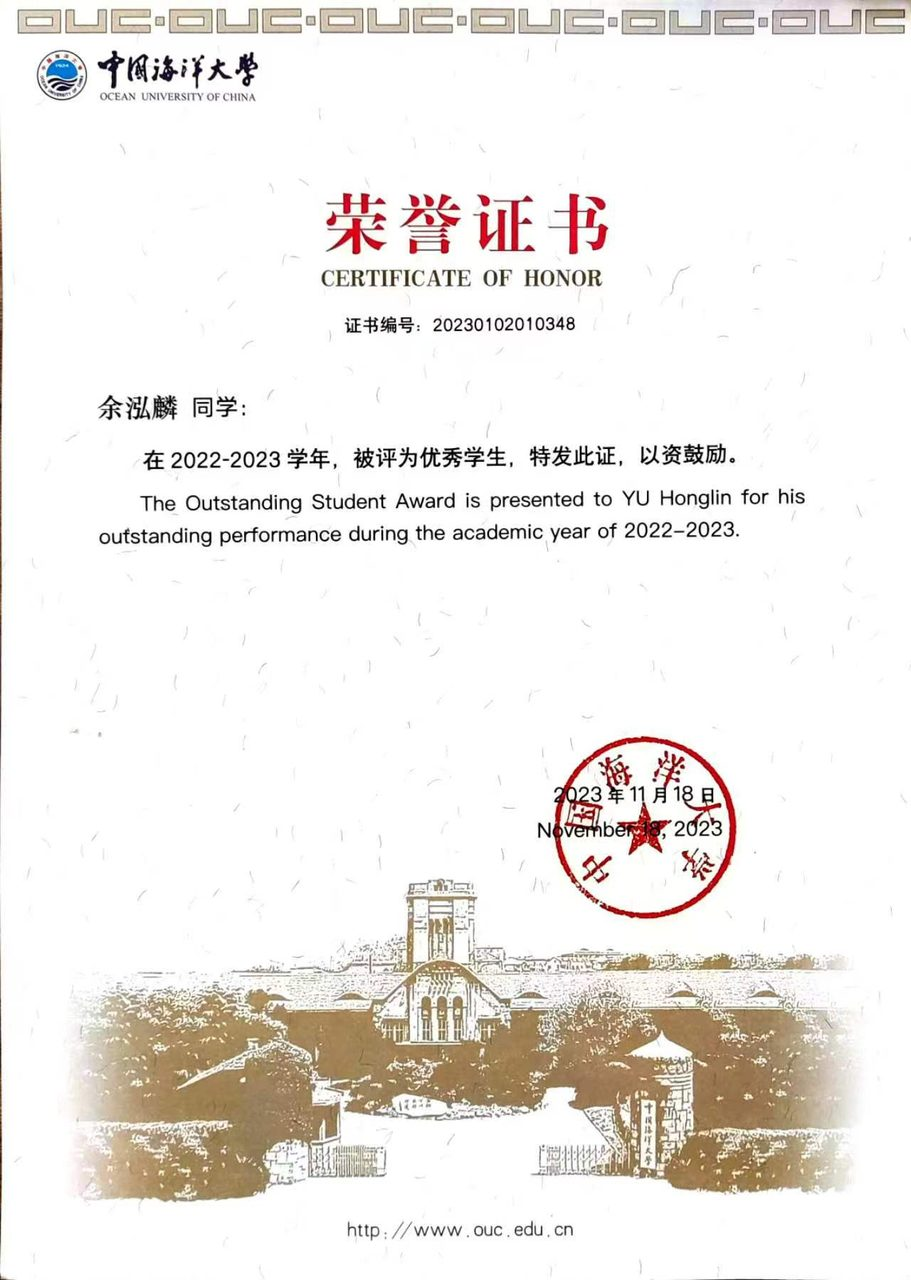
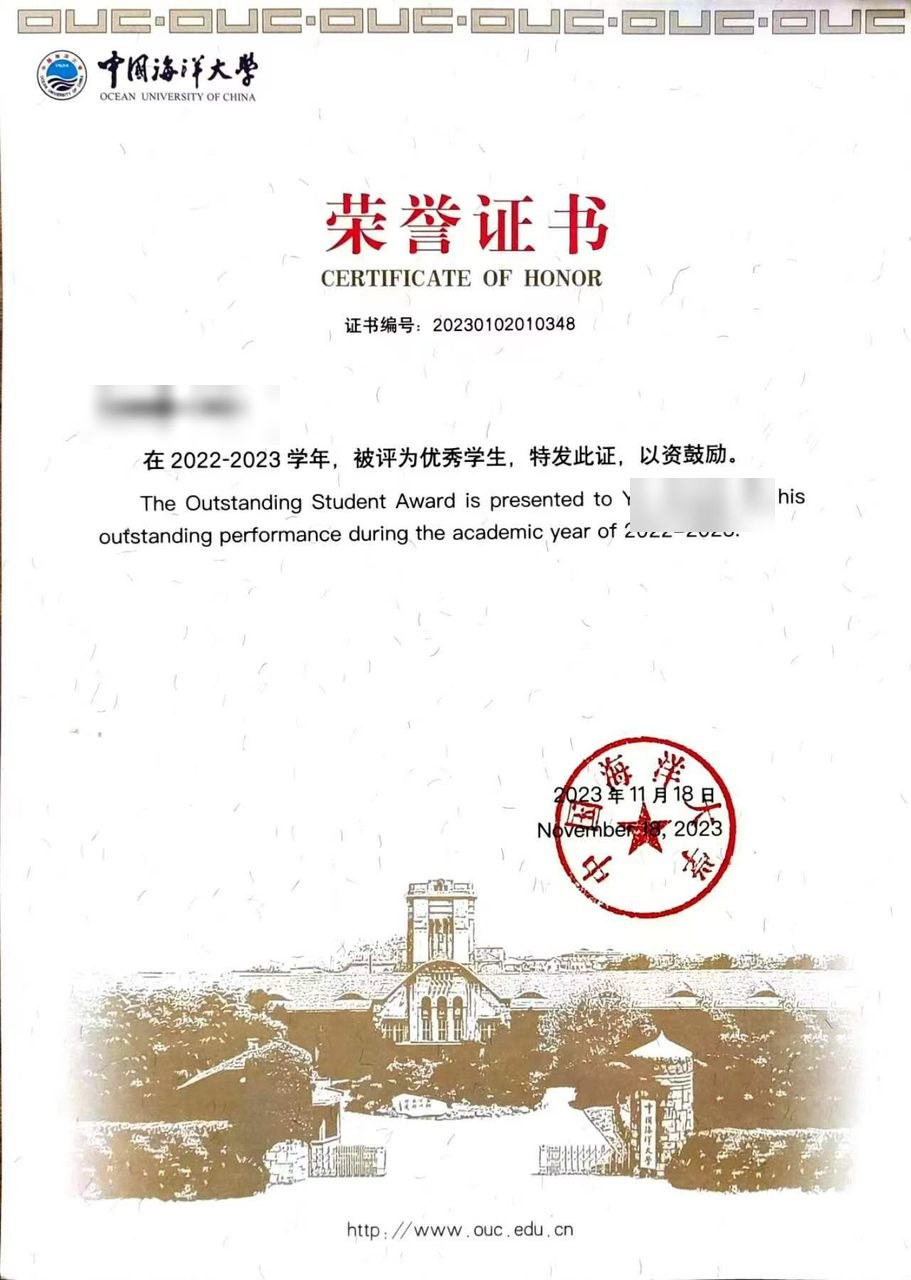
privacy: 页脚/关于页邮箱换成 QQ 邮箱(旧邮箱前缀为手机号);AwardWall 七张证书照片像素化打码(姓名/学号/身份证号/队友与老师姓名),附处理脚本

Changed region(s): [[0.0922, 0.2812, 0.2766, 0.3438], [0.6762, 0.375, 0.8606, 0.4375]]

diff --git a/src/data/site.ts b/src/data/site.ts
@@ -14,7 +14,7 @@ export const siteConfig = {
       en: 'Ph.D.student @ FDU',
     },
     location: 'Shanghai, China',
-    email: '13427917163@163.com',
+    email: '2765428788@qq.com',
     github: 'Alidadei',
     researchInterests: [
       'Large Language Models',
